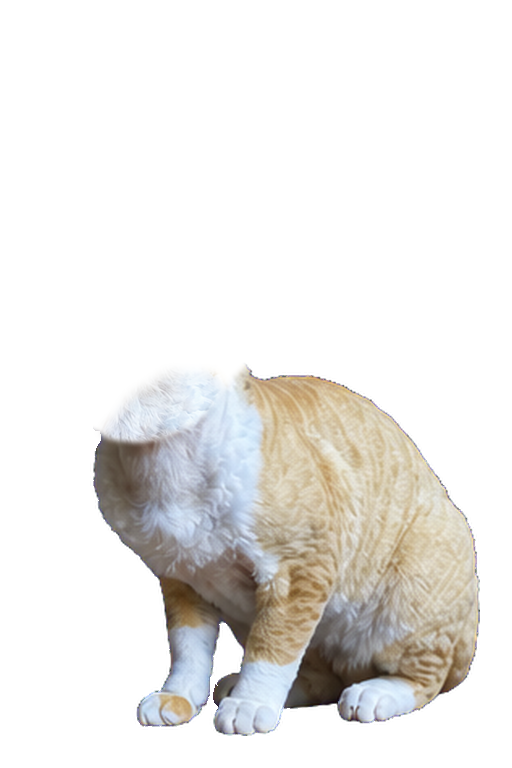
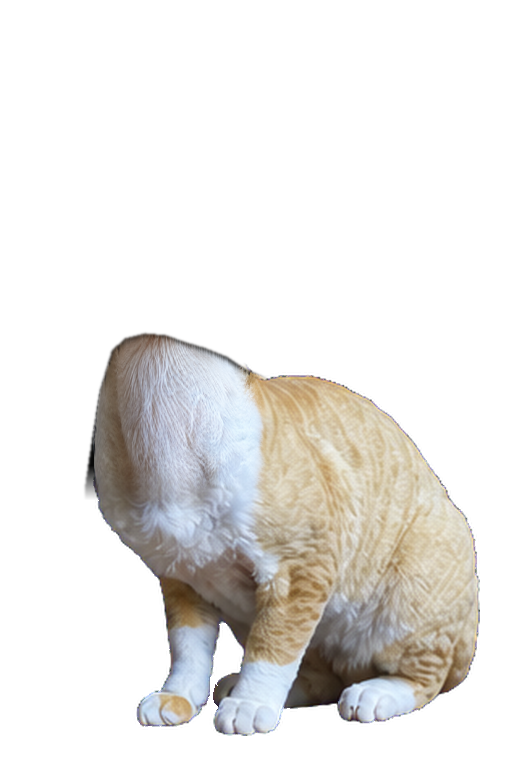
Fix fixed-pivot head tilt and neck layering

Changed region(s): [[0.1562, 0.4062, 0.5312, 0.6562]]

diff --git a/tests/test_head_neck_deformation.py b/tests/test_head_neck_deformation.py
@@ -487,7 +487,7 @@ def test_layered_neutral_frame_is_exact_source_with_symmetric_padding() -> None:
         0.0,
         HeadPose(0.0, 0.0, 0.0, 1.0),
     )
-    assert ImageChops.difference(arc_apex, result).getbbox() is not None
+    assert ImageChops.difference(arc_apex, result).getbbox() is None
 
 
 def test_rotated_eye_hit_testing_uses_inverse_head_rotation() -> None:
@@ -506,16 +506,13 @@ def test_rotated_eye_hit_testing_uses_inverse_head_rotation() -> None:
     dy = source_y - pivot_y
     rendered = (
         64.0 + pivot_x + math.cos(radians) * dx + math.sin(radians) * dy,
-        pivot_y
-        - math.sin(radians) * dx
-        + math.cos(radians) * dy
-        - deformation._ARC_LIFT_PIXELS,
+        pivot_y - math.sin(radians) * dx + math.cos(radians) * dy,
     )
     assert compositor.hit_test_eye(rendered)
     assert not compositor.hit_test_eye((639.0, 10.0))
 
 
-def test_arc_path_lifts_the_head_without_moving_the_static_body() -> None:
+def test_arc_path_never_translates_the_head_or_static_body() -> None:
     source = _synthetic_cat()
     backplate = _synthetic_cat()
     compositor = ContinuousHeadNeckCompositor(
@@ -529,15 +526,8 @@ def test_arc_path_lifts_the_head_without_moving_the_static_body() -> None:
         0.0, 0.0, HeadPose(0.0, 0.0, 20.0, 1.0)
     )
 
-    assert ImageChops.difference(without_arc, with_arc).getbbox() is not None
-    assert deformation._ARC_LIFT_PIXELS == 24.0
-    assert (
-        ImageChops.difference(
-            without_arc.crop((64, 500, 576, 768)),
-            with_arc.crop((64, 500, 576, 768)),
-        ).getbbox()
-        is None
-    )
+    assert ImageChops.difference(without_arc, with_arc).getbbox() is None
+    assert deformation._ARC_LIFT_PIXELS == 0.0
 
 
 def test_arc_apex_is_continuous_through_exact_zero_rotation() -> None:
@@ -569,13 +559,15 @@ def test_arc_apex_is_continuous_through_exact_zero_rotation() -> None:
             compositor.compose(
                 0.0,
                 0.0,
-                HeadPose(0.0, 0.0, angle, 1.0),
+                HeadPose(0.0, 0.0, angle, arc),
             )
         )
-        for angle in (-0.0104, 0.0, 0.0104)
+        for angle, arc in ((-35.0, 0.0), (0.0, 1.0), (50.0, 0.0))
     ]
 
-    assert centres == pytest.approx([(189.0, 336.0)] * 3, abs=0.01)
+    for centre_x, centre_y in centres:
+        assert centre_x == pytest.approx(189.0, abs=0.6)
+        assert centre_y == pytest.approx(360.0, abs=0.6)
 
 
 @pytest.mark.parametrize(

diff --git a/src/desktop_pet/head_neck_deformation.py b/src/desktop_pet/head_neck_deformation.py
@@ -95,21 +95,23 @@ _LAYER_CANVAS_SIZE = (_CANVAS_SIZE[0] + 2 * _LAYER_PADDING_X, 768)
 # centre between the eyes and nose in the neutral 512x768 source artwork.
 _TILT_PIVOT = (125.0, 360.0)
 _TILT_LIMIT_DEGREES = 50.0
-_ARC_LIFT_PIXELS = 24.0
+_ARC_LIFT_PIXELS = 0.0
 
 
 def _build_head_layer_mask() -> Image.Image:
     mask = Image.new("L", _CANVAS_SIZE, 0)
-    ImageDraw.Draw(mask).polygon(
+    draw = ImageDraw.Draw(mask)
+    draw.polygon(
         (
             (0, 160),
-            (270, 160),
-            (270, 345),
-            (254, 366),
-            (237, 381),
-            (222, 399),
-            (207, 417),
-            (188, 431),
+            (258, 160),
+            (258, 320),
+            (246, 339),
+            (231, 355),
+            (218, 375),
+            (207, 398),
+            (193, 420),
+            (174, 435),
             (165, 441),
             (139, 446),
             (112, 443),
@@ -523,7 +525,6 @@ class ContinuousHeadNeckCompositor:
             raise TypeError("point must be an x/y tuple")
         x = _finite_real(point[0], "point x") - self._layer_padding_x
         y = _finite_real(point[1], "point y")
-        y += self._last_arc * _ARC_LIFT_PIXELS
         angle = math.radians(self._last_rotation_degrees)
         if angle != 0.0:
             dx = x - _TILT_PIVOT[0]
@@ -692,7 +693,7 @@ class ContinuousHeadNeckCompositor:
         self._last_arc = pose.arc
         if self._body_backplate is None:
             return deformed
-        if pose.rotation_degrees == 0.0 and pose.arc == 0.0:
+        if pose.rotation_degrees == 0.0:
             return self._pad_layer(deformed)
         return self._compose_rotated_head(deformed, pose)
 
@@ -721,11 +722,6 @@ class ContinuousHeadNeckCompositor:
                 expand=False,
             )
         )
-        lift = round(pose.arc * _ARC_LIFT_PIXELS)
-        if lift:
-            lifted = Image.new("RGBA", self.source_size, (0, 0, 0, 0))
-            lifted.alpha_composite(rotated, (0, -lift))
-            rotated = lifted
         result = self._padded_body_backplate.copy()
         result.alpha_composite(rotated)
         return _normalize_near_opaque_alpha(result)

diff --git a/tests/test_idle_head_tilt.py b/tests/test_idle_head_tilt.py
@@ -10,6 +10,7 @@ from desktop_pet.idle_head_tilt import (
     IdleHeadTiltMotion,
     IdleTiltPose,
     MAX_HOLD_SECONDS,
+    MAX_CLOCKWISE_TILT_DEGREES,
     MAX_TILT_DEGREES,
     MIN_HOLD_SECONDS,
     MIN_TILT_DEGREES,
@@ -148,6 +149,25 @@ def test_triggered_arc_mode_keeps_the_existing_large_arc_contract() -> None:
     assert midpoint.arc == pytest.approx(1.0)
 
 
+def test_clockwise_angle_cap_is_reduced_without_changing_counterclockwise_cap() -> None:
+    calls: list[tuple[float, float]] = []
+
+    def highest_uniform(low: float, high: float) -> float:
+        calls.append((low, high))
+        return high
+
+    clockwise = IdleHeadTiltMotion(uniform=highest_uniform)
+    clockwise.trigger("left", 0.0)
+    assert clockwise.sample(APPROACH_SECONDS).rotation_degrees == -35.0
+    assert (MIN_TILT_DEGREES, MAX_CLOCKWISE_TILT_DEGREES) in calls
+
+    calls.clear()
+    counterclockwise = IdleHeadTiltMotion(uniform=highest_uniform)
+    counterclockwise.trigger("right", 0.0)
+    assert counterclockwise.sample(APPROACH_SECONDS).rotation_degrees == 50.0
+    assert (MIN_TILT_DEGREES, MAX_TILT_DEGREES) in calls
+
+
 def test_trigger_rejects_an_invalid_mode_without_changing_the_motion() -> None:
     motion = IdleHeadTiltMotion(uniform=lowest_uniform)
     motion.reset(10.0)
@@ -193,4 +213,5 @@ def test_public_timing_and_mode_ranges_match_the_idle_contract() -> None:
     assert MIN_HOLD_SECONDS == 0.8
     assert MAX_HOLD_SECONDS == 2.0
     assert MIN_TILT_DEGREES == 30.0
+    assert MAX_CLOCKWISE_TILT_DEGREES == 35.0
     assert MAX_TILT_DEGREES == 50.0

diff --git a/tests/test_assets.py b/tests/test_assets.py
@@ -261,17 +261,21 @@ def test_load_head_neck_compositor_rejects_unapproved_backplate(
         assets_module.load_head_neck_compositor()
 
 
-def test_production_backplate_preserves_original_neck_and_chest_band() -> None:
+def test_production_backplate_completes_neck_and_preserves_lower_body() -> None:
     root = assets_module.neutral_eye_source_probe_root()
     neutral = assets_module.NeutralEyeCompositor.load(root).compose(0.0, 0.0)
     with Image.open(root / "body-backplate.png") as image:
         backplate = image.convert("RGBA")
 
-    neck_and_chest = (0, 462, 512, 501)
+    lower_body = (0, 501, 512, 768)
     assert (
         ImageChops.difference(
-            backplate.crop(neck_and_chest),
-            neutral.crop(neck_and_chest),
+            backplate.crop(lower_body),
+            neutral.crop(lower_body),
         ).getbbox()
         is None
     )
+    alpha = backplate.getchannel("A")
+    assert alpha.getpixel((125, 342)) > 200
+    assert alpha.getpixel((165, 339)) > 200
+    assert alpha.getpixel((225, 360)) > 200

diff --git a/src/desktop_pet/idle_head_tilt.py b/src/desktop_pet/idle_head_tilt.py
@@ -15,6 +15,7 @@ MIN_HOLD_SECONDS: Final = 0.8
 MAX_HOLD_SECONDS: Final = 2.0
 MIN_TILT_DEGREES: Final = 30.0
 MAX_TILT_DEGREES: Final = 50.0
+MAX_CLOCKWISE_TILT_DEGREES: Final = 35.0
 APPROACH_SECONDS: Final = 0.55
 ARC_TRAVEL_SECONDS: Final = 1.15
 RETURN_SECONDS: Final = 0.55
@@ -202,9 +203,14 @@ class IdleHeadTiltMotion:
         return value
 
     def _random_rotation(self, direction: float) -> float:
+        maximum = (
+            MAX_CLOCKWISE_TILT_DEGREES
+            if direction < 0.0
+            else MAX_TILT_DEGREES
+        )
         magnitude = self._random_duration(
             MIN_TILT_DEGREES,
-            MAX_TILT_DEGREES,
+            maximum,
             "idle tilt angle",
         )
         return direction * magnitude

diff --git a/src/desktop_pet/assets.py b/src/desktop_pet/assets.py
@@ -16,7 +16,7 @@ EXPECTED_SIZE = (512, 768)
 FRAME_COUNT = 6
 EXPECTED_NAMES = tuple(f"{index:02d}.png" for index in range(FRAME_COUNT))
 HEAD_TILT_BACKPLATE_SHA256 = (
[2 lines of base64/hex data omitted]
 )
 
 
